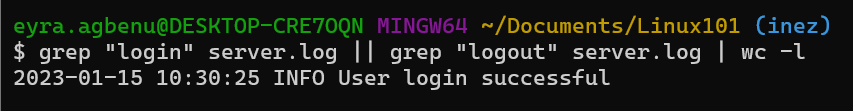
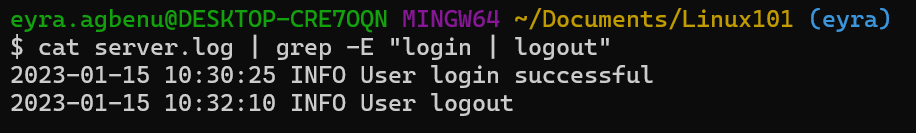
updated exercise 15 with simpler solution, using grep with -E and corresponding image

Changed region(s): [[0.0, 0.0541, 0.9754, 0.8919]]

diff --git a/solutions.md b/solutions.md
@@ -177,5 +177,4 @@
   - [x] Extract all timestamps (first two columns)
     - ![Example](images/ex15_3.png)
   - [x] Find lines that contain either "login" or "logout"
-    - -- with "login" starting first ![Example](images/ex15_4.png) 
-    - -- with "logout" starting first ![Example](images/ex15_5.png) 
+    - updated with better solution:![Example](images/ex15_4.png) 
